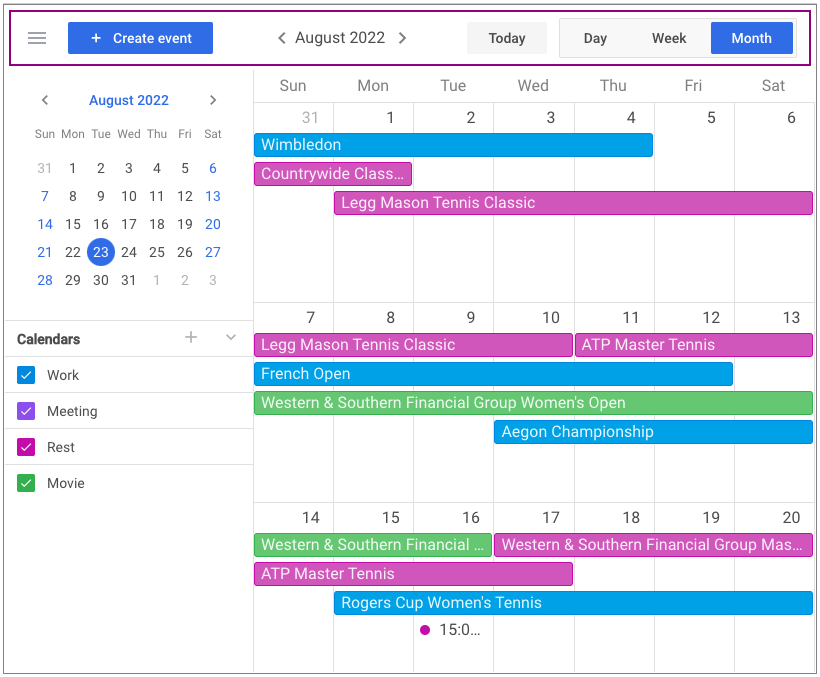
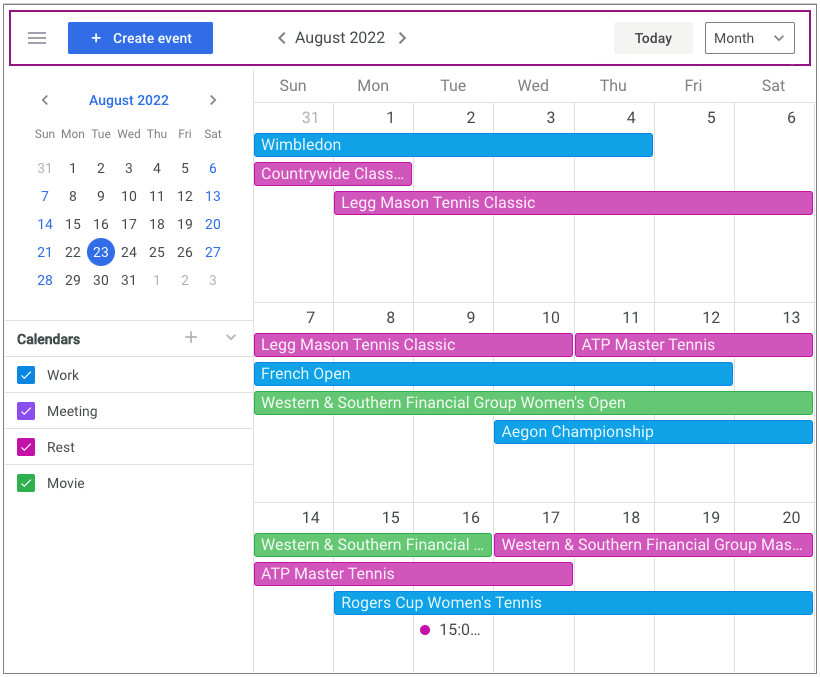
[update] screenshots and overview before release

Changed region(s): [[0.7622, 0.031, 0.9756, 0.0931], [0.5793, 0.031, 0.6402, 0.062], [0.7012, 0.031, 0.7317, 0.062]]

diff --git a/docs/index.md b/docs/index.md
@@ -7,7 +7,7 @@ description: You can have an overview of DHTMLX JavaScript Event Calendar librar
 
 # DHTMLX Event Calendar overview
 
-JavaScript **Event Calendar** is a modern web tool for efficient time-management and scheduling events. It perfectly works on both desktop and mobile platforms. This solution will help you to manage your schedule as well as plane new appointments by adding as much events as you need. It is also easy to reschedule all the events using drag-n-drop. The appropriate display modes will help to look through the events scheduled for a day, week or month.
+JavaScript **Event Calendar** is a modern web tool for efficient time-management and scheduling events. It perfectly works on both desktop and mobile platforms. This solution will help you to manage your schedule as well as plane new appointments by adding as much events as you need. It is also easy to reschedule all the events using drag-n-drop. The appropriate display modes will help to look through the events scheduled for a day, week, month, year and agenda.
 
 ## Event Calendar structure
 
@@ -15,7 +15,7 @@ JavaScript **Event Calendar** is a modern web tool for efficient time-management
 
 The **Toolbar** is the top part of Event Calendar. It consists of the controls for managing the widget functionality. Here you can perform the following operations:
 
-- switch between the **Day**, **Week** and **Month** view modes using the corresponding controls
+- view the events throught the **Day**, **Week**, **Month**, **Year** and **Agenda** view modes using the corresponding controls
 - go to the current date using a **Today** button
 - switch to the needed date using the special arrows in the middle part of Toolbar
 - create new events, using a **+ Create event** button
